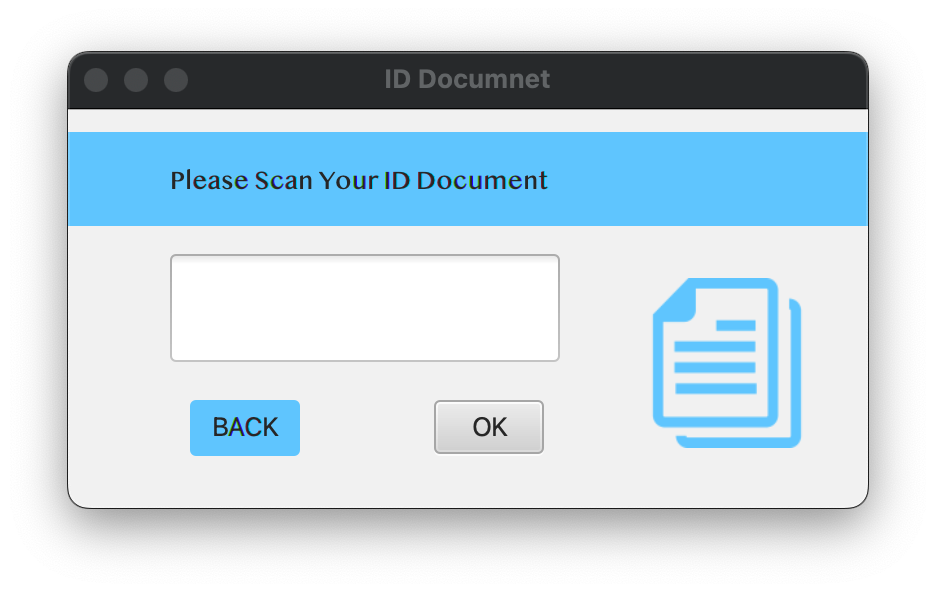
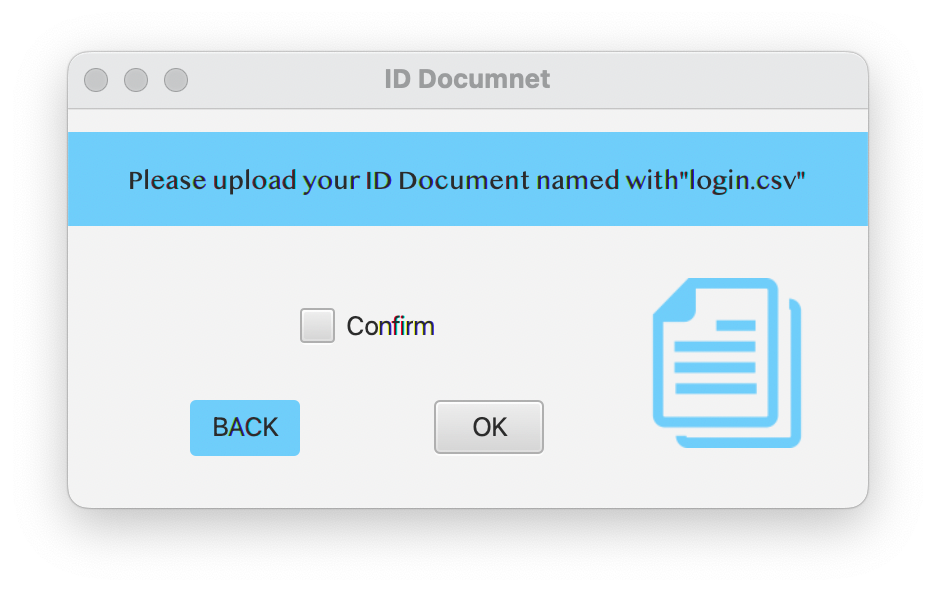
更新user manual

diff --git a/User Manual.md b/User Manual.md
@@ -42,7 +42,7 @@ This is the GUI of the second login way after pressing the "Surname & ID Number"
 
 <img src="User Manual.assets/surname_login.png" alt="surname_login" style="zoom:50%;" />
 
-This is the GUI of the third login way after pressing the "ID Document" button. You just press the "OK" button to jump to teh next GUI since the system has already read the "data.csv" automatically.
+This is the GUI of the third login way after pressing the "ID Document" button. First, you need to press the "confirm" button to ensure that you want to log in by using ID document otherwise there will be a warning. Then You can just press the "OK" button to jump to teh next GUI since the system has already read the "data.csv" automatically.
 
 <img src="User Manual.assets/iddoc_login.png" alt="iddoc_login" style="zoom:50%;" />
 
